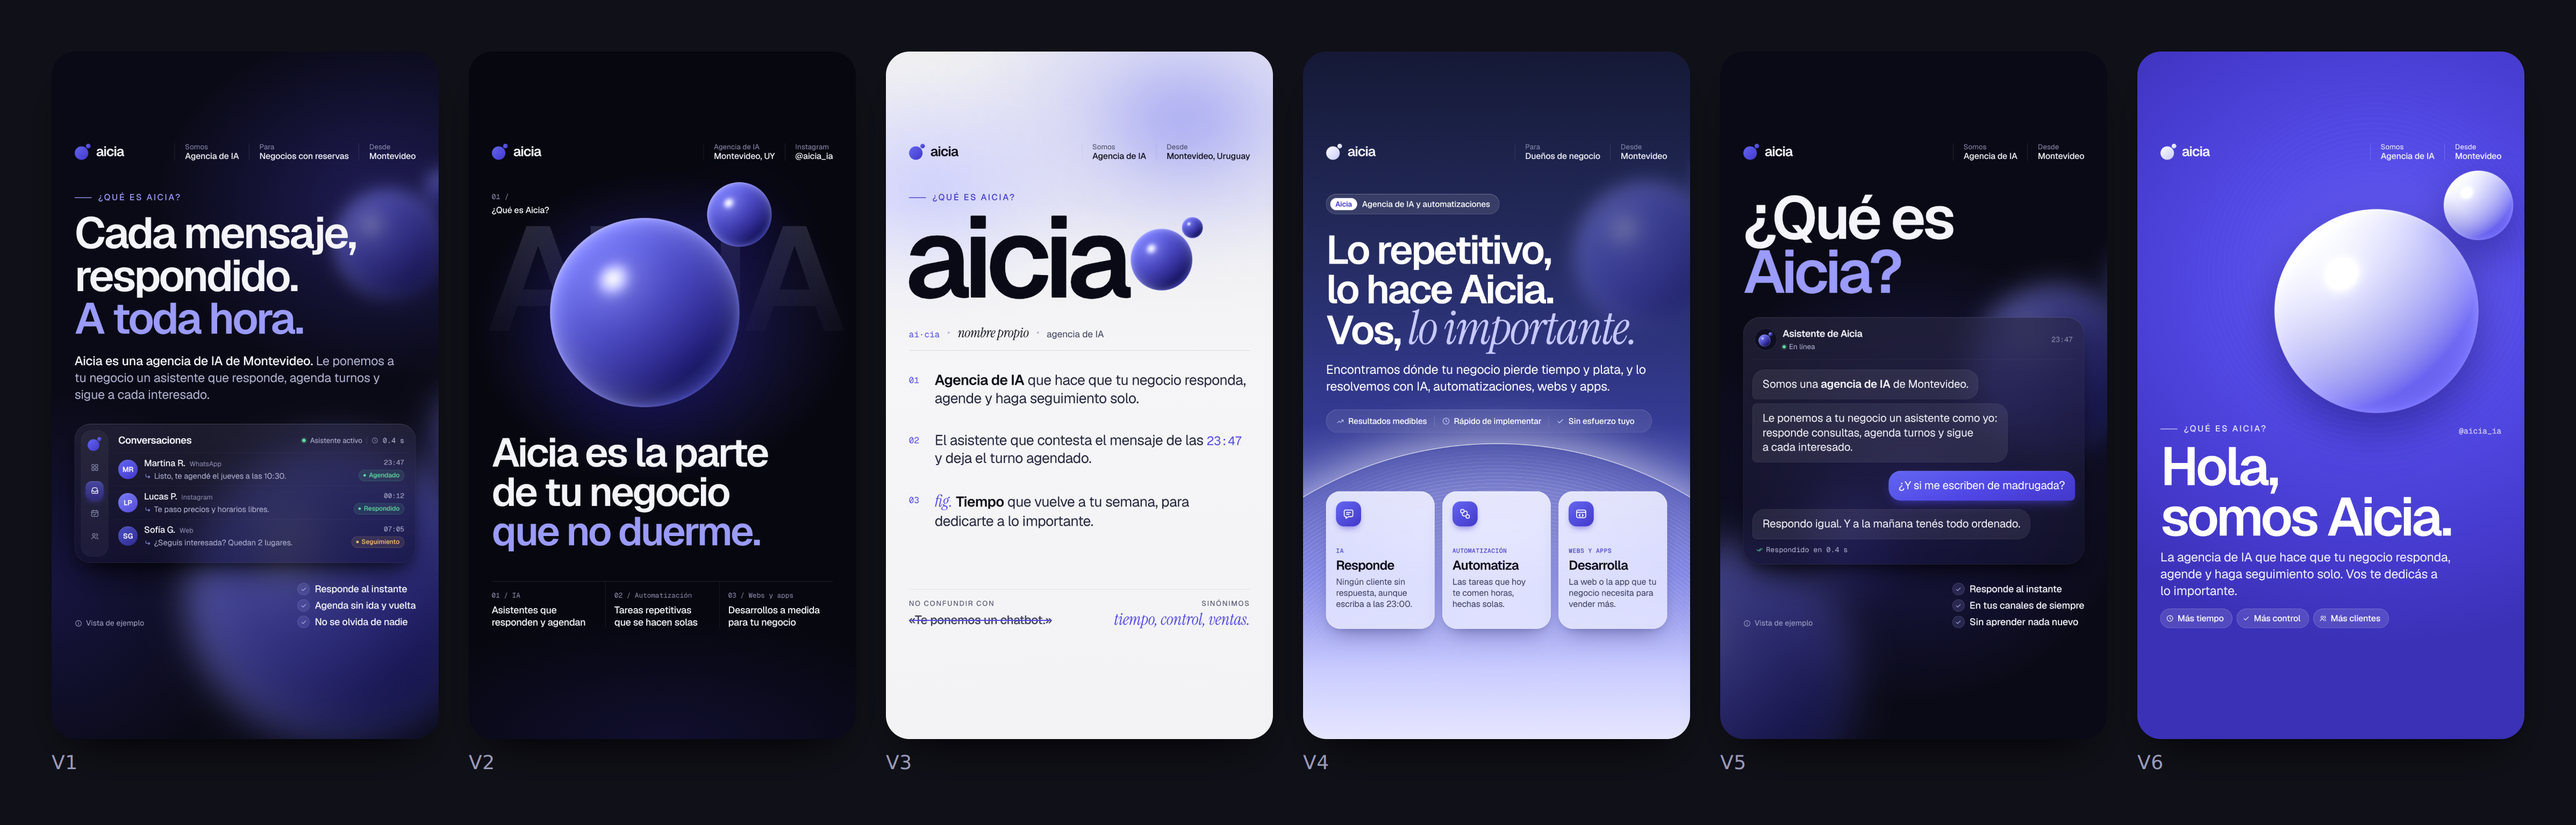
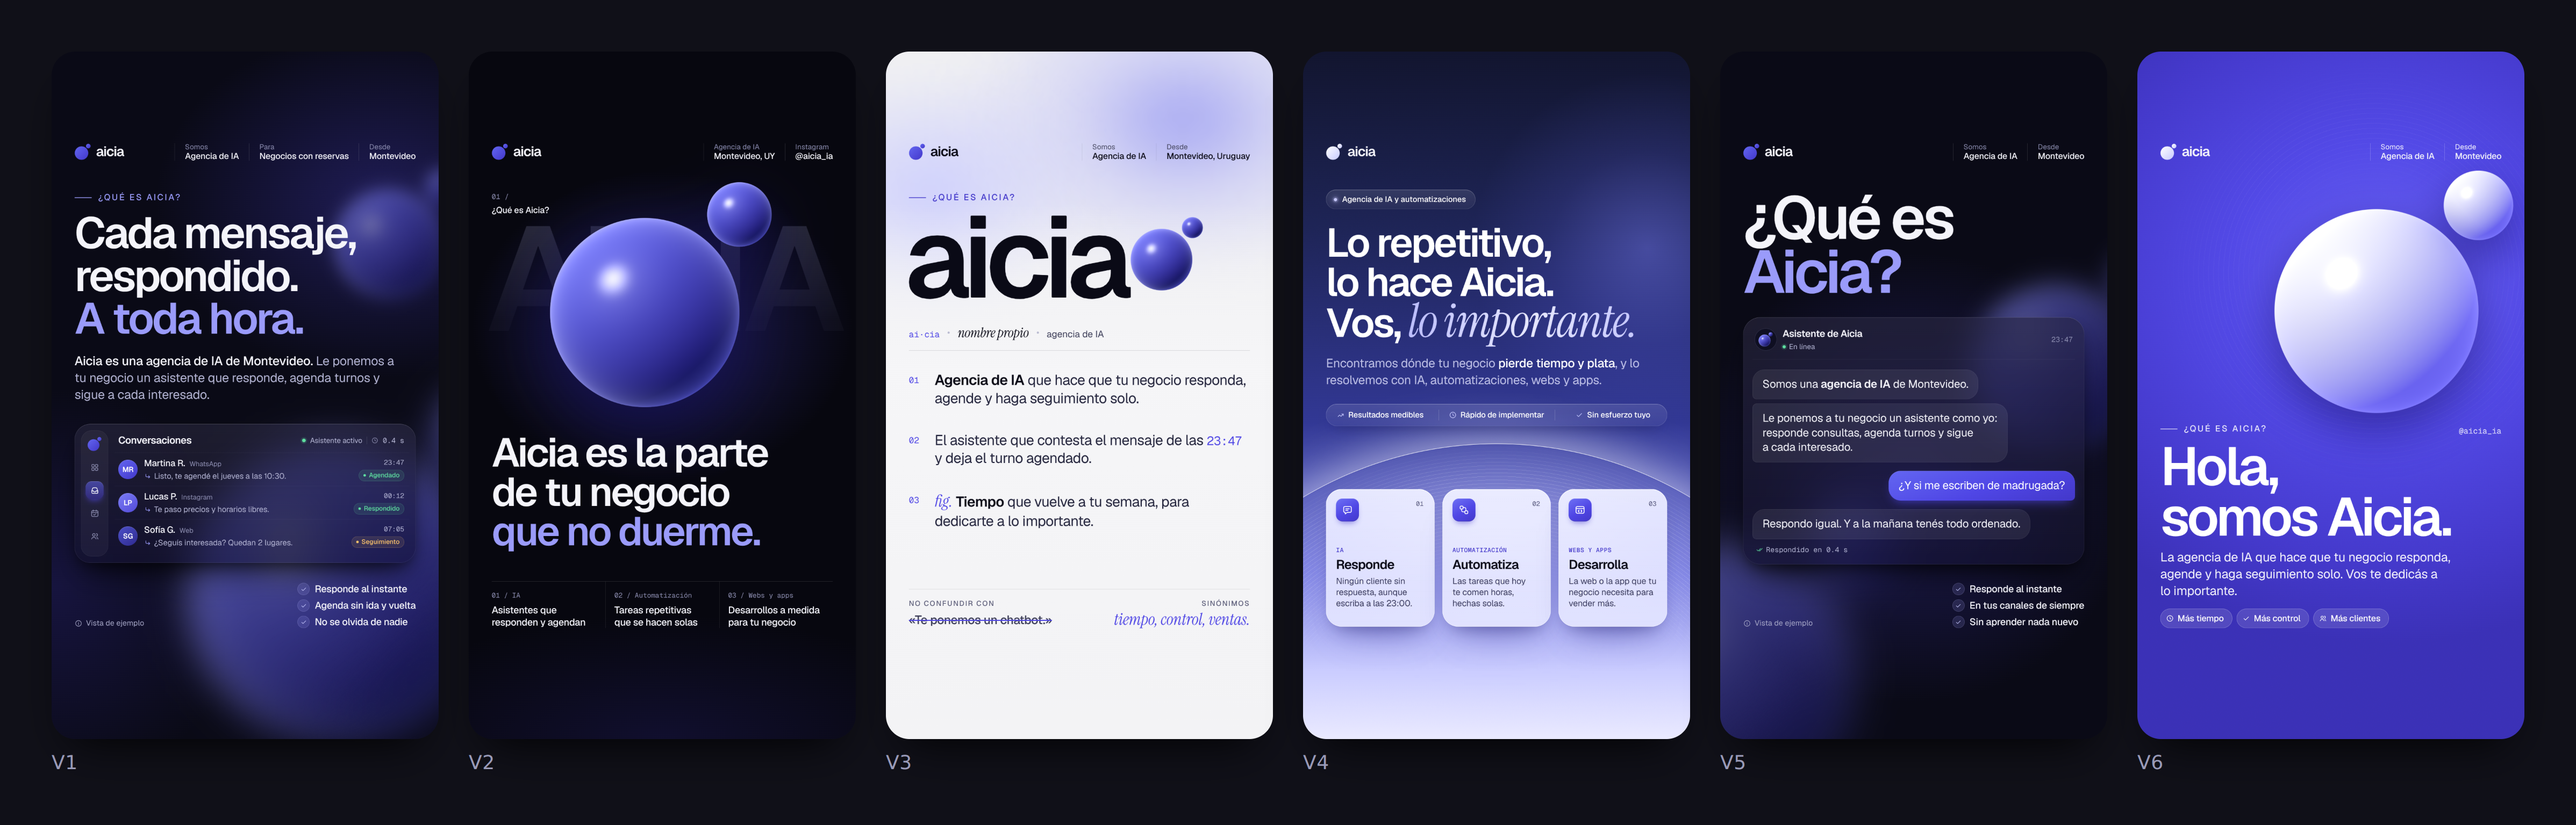
Pule la historia V4: más premium, sin la fila Para/Desde
Saca la fila meta de la derecha, cambia la luz borrosa por un brillo
limpio, pill con punto de estado, brillo sutil en "lo importante",
bajada con jerarquía, cápsula de valores alineada a la grilla de las
tarjetas y tarjetas con radios concéntricos y numeración.

Claude-Session: https://claude.ai/code/session_01SBSshHAET78NiDLxszLW9R

diff --git a/historias/que-es-aicia/historias.html b/historias/que-es-aicia/historias.html
@@ -154,24 +154,26 @@ img.sph{display:block;pointer-events:none;user-select:none}
 /* =========================================================
    V4 · Senses: degradé pizarra → lavanda + arco de líneas
    ========================================================= */
-.v4 .bg{background:linear-gradient(180deg,#151935 0%,#232A5C 28%,#343A92 54%,#7E82E4 76%,#C9CBFF 90%,#E6E6FF 100%)}
-.v4 .bg .arc{width:2100px;height:2100px;left:-510px;top:1096px;border-radius:50%;background:repeating-radial-gradient(circle at 50% 50%,rgba(255,255,255,0) 0 9px,rgba(255,255,255,.55) 9px 10px);-webkit-mask:radial-gradient(closest-side,transparent 64%,#000 79%,#000 92%,transparent 100%);mask:radial-gradient(closest-side,transparent 64%,#000 79%,#000 92%,transparent 100%);opacity:.45}
-.v4 .bg .arc2{width:2100px;height:2100px;left:-510px;top:1096px;border-radius:50%;box-shadow:0 -2px 0 0 rgba(255,255,255,.7),0 -40px 120px -20px rgba(255,255,255,.45)}
+.v4 .bg{background:linear-gradient(180deg,#12152E 0%,#1E2456 26%,#313793 54%,#7E82E4 76%,#C9CBFF 90%,#EAEAFF 100%)}
+.v4 .bg .orb{width:980px;height:980px;left:470px;top:60px;border-radius:50%;background:radial-gradient(closest-side,rgba(124,128,255,.40),rgba(99,102,241,.14) 55%,transparent)}
+.v4 .bg .arc{width:2100px;height:2100px;left:-510px;top:1096px;border-radius:50%;background:repeating-radial-gradient(circle at 50% 50%,rgba(255,255,255,0) 0 9px,rgba(255,255,255,.5) 9px 10px);-webkit-mask:radial-gradient(closest-side,transparent 64%,#000 79%,#000 92%,transparent 100%);mask:radial-gradient(closest-side,transparent 64%,#000 79%,#000 92%,transparent 100%);opacity:.4}
+.v4 .bg .arc2{width:2100px;height:2100px;left:-510px;top:1096px;border-radius:50%;box-shadow:0 -1.5px 0 0 rgba(255,255,255,.75),0 -40px 120px -20px rgba(255,255,255,.42)}
 .v4 .bg .halo{width:1300px;height:700px;left:-110px;top:1010px;border-radius:50%;background:radial-gradient(closest-side,rgba(199,201,255,.55),transparent);filter:blur(40px)}
-.v4 .bg .s-a{width:560px;left:720px;top:250px;filter:blur(26px);opacity:.45}
-.v4 .pill{left:var(--m);top:398px;display:flex;align-items:center;gap:14px;height:56px;padding:0 26px 0 12px;border-radius:999px;font-size:23px;font-weight:500;color:#fff;letter-spacing:-0.005em;background:rgba(255,255,255,.10);backdrop-filter:blur(18px);box-shadow:inset 0 0 0 1px rgba(255,255,255,.20),inset 0 1px 0 rgba(255,255,255,.25)}
-.v4 .pill b{height:34px;padding:0 14px;border-radius:999px;display:inline-flex;align-items:center;background:#fff;color:var(--indigo-d);font-weight:600;font-size:20px}
-.v4 .title{left:var(--m);top:500px;font-size:112px;width:960px;color:#fff;white-space:nowrap}
-.v4 .title .serif{font-size:132px;letter-spacing:-0.025em;line-height:.8;color:var(--lav)}
-.v4 .lede{left:var(--m);top:866px;width:952px;font-size:35px;line-height:1.34;color:#fff;letter-spacing:-0.012em;text-wrap:pretty}
-.v4 .vals{left:var(--m);top:1000px;height:64px;padding:0 28px;border-radius:999px;display:flex;align-items:center;background:rgba(255,255,255,.08);backdrop-filter:blur(18px);box-shadow:inset 0 0 0 1px rgba(255,255,255,.16),inset 0 1px 0 rgba(255,255,255,.2)}
-.v4 .vals span{display:flex;align-items:center;gap:10px;padding:0 20px;font-size:23px;font-weight:500;color:#fff;letter-spacing:-0.01em;border-left:1px solid rgba(255,255,255,.24);white-space:nowrap}
-.v4 .vals span:first-child{padding-left:0;border-left:0}
-.v4 .vals .ic{font-size:24px;color:var(--lav)}
-.v4 .cards{left:var(--m);right:var(--m);top:1228px;display:grid;grid-template-columns:repeat(3,1fr);gap:22px}
-.v4 .card{border-radius:40px;padding:28px 28px 32px;height:384px;display:flex;flex-direction:column;background:linear-gradient(180deg,rgba(255,255,255,.80),rgba(255,255,255,.62));backdrop-filter:blur(24px) saturate(140%);box-shadow:inset 0 0 0 1px rgba(255,255,255,.75),0 30px 60px -24px rgba(30,30,90,.45),0 8px 18px -8px rgba(30,30,90,.20);color:var(--ink)}
-.v4 .card .ti{flex:none;width:70px;height:70px;border-radius:22px;display:grid;place-items:center;font-size:34px;color:#fff;background:linear-gradient(140deg,#6366F1,#4338CA);box-shadow:inset 0 1px 0 rgba(255,255,255,.3),0 10px 20px -8px rgba(67,56,202,.7)}
-.v4 .card .k{margin-top:58px;font-size:17px;font-weight:500;color:var(--indigo-d);letter-spacing:0.04em;text-transform:uppercase}
+.v4 .pill{left:var(--m);top:386px;display:flex;align-items:center;gap:14px;height:54px;padding:0 26px 0 22px;border-radius:999px;font-size:22px;font-weight:500;color:#fff;letter-spacing:0;background:linear-gradient(180deg,rgba(255,255,255,.11),rgba(255,255,255,.05));backdrop-filter:blur(18px);box-shadow:inset 0 0 0 1px rgba(255,255,255,.16),inset 0 1px 0 rgba(255,255,255,.22)}
+.v4 .pill i{width:9px;height:9px;border-radius:50%;background:var(--lav);box-shadow:0 0 0 4px rgba(199,201,255,.14),0 0 14px 2px rgba(199,201,255,.65)}
+.v4 .title{left:var(--m);top:480px;font-size:112px;width:960px;color:#fff;white-space:nowrap}
+.v4 .title .serif{font-size:132px;letter-spacing:-0.025em;line-height:.8;color:var(--lav);background:linear-gradient(100deg,#B9BBFF 0%,#E6E7FF 52%,#C3C5FF 100%);-webkit-background-clip:text;background-clip:text;-webkit-text-fill-color:transparent;padding:0 .08em .14em 0}
+.v4 .lede{left:var(--m);top:848px;width:952px;font-size:34px;line-height:1.38;color:rgba(226,228,255,.80);letter-spacing:-0.012em;text-wrap:pretty}
+.v4 .lede b{color:#fff;font-weight:500}
+.v4 .vals{left:var(--m);right:var(--m);top:984px;height:62px;border-radius:999px;display:grid;grid-template-columns:repeat(3,1fr);column-gap:22px;align-items:center;background:linear-gradient(180deg,rgba(255,255,255,.11),rgba(255,255,255,.05));backdrop-filter:blur(18px);box-shadow:inset 0 0 0 1px rgba(255,255,255,.16),inset 0 1px 0 rgba(255,255,255,.22),0 20px 40px -24px rgba(10,10,40,.55)}
+.v4 .vals span{position:relative;display:flex;justify-content:center;align-items:center;gap:10px;height:30px;font-size:22px;font-weight:500;color:#fff;letter-spacing:-0.01em;white-space:nowrap}
+.v4 .vals span + span::before{content:"";position:absolute;left:-11px;top:0;bottom:0;width:1px;background:rgba(255,255,255,.2)}
+.v4 .vals .ic{font-size:22px;color:var(--lav)}
+.v4 .cards{left:var(--m);right:var(--m);top:1222px;display:grid;grid-template-columns:repeat(3,1fr);gap:22px}
+.v4 .card{position:relative;border-radius:44px;padding:26px 28px 32px;height:384px;display:flex;flex-direction:column;background:linear-gradient(180deg,rgba(255,255,255,.84),rgba(255,255,255,.66));backdrop-filter:blur(28px) saturate(160%);box-shadow:inset 0 0 0 1px rgba(255,255,255,.72),inset 0 1.5px 0 #fff,0 1px 2px rgba(30,30,90,.08),0 24px 48px -22px rgba(30,30,90,.40),0 60px 90px -50px rgba(40,36,140,.45);color:var(--ink)}
+.v4 .card .ti{flex:none;width:64px;height:64px;border-radius:18px;display:grid;place-items:center;font-size:30px;color:#fff;background:linear-gradient(150deg,#6E71F4,#4F46E5 55%,#4338CA);box-shadow:inset 0 1px 0 rgba(255,255,255,.35),inset 0 -1px 0 rgba(20,10,80,.25),0 10px 18px -8px rgba(67,56,202,.7)}
+.v4 .card .n{position:absolute;top:30px;right:30px;font-size:18px;color:#55567A}
+.v4 .card .k{margin-top:70px;font-size:17px;font-weight:500;color:var(--indigo-d);letter-spacing:0.04em;text-transform:uppercase}
 .v4 .card h3{margin-top:10px;font-size:36px;font-weight:600;letter-spacing:-0.035em;line-height:1.05}
 .v4 .card p{margin-top:12px;font-size:24px;line-height:1.3;color:#3A3B5C;letter-spacing:-0.008em;text-wrap:pretty}
 
@@ -332,19 +334,18 @@ img.sph{display:block;pointer-events:none;user-select:none}
 
 <!-- ============ V4 · Senses ============ -->
 <section class="story v4" id="v4">
-  <div class="bg"><div class="halo"></div><div class="arc"></div><div class="arc2"></div><img class="sph s-a" data-sph="indigo" alt=""><div class="grain"></div></div>
+  <div class="bg"><div class="orb"></div><div class="halo"></div><div class="arc"></div><div class="arc2"></div><div class="grain"></div></div>
   <header class="meta">
     <div class="brand"><svg><use href="#logo-w"/></svg>aicia</div>
-    <dl><div><dt>Para</dt><dd>Dueños de negocio</dd></div><div><dt>Desde</dt><dd>Montevideo</dd></div></dl>
   </header>
-  <div class="pill"><b>Aicia</b>Agencia de IA y automatizaciones</div>
+  <div class="pill"><i></i>Agencia de IA y automatizaciones</div>
   <h1 class="title">Lo repetitivo,<br>lo hace Aicia.<br>Vos, <span class="serif">lo importante.</span></h1>
-  <p class="lede">Encontramos dónde tu negocio pierde tiempo y plata, y lo resolvemos con IA, automatizaciones, webs y apps.</p>
+  <p class="lede">Encontramos dónde tu negocio <b>pierde tiempo y plata</b>, y lo resolvemos con IA, automatizaciones, webs y apps.</p>
   <div class="vals"><span><svg class="ic"><use href="#i-trend"/></svg>Resultados medibles</span><span><svg class="ic"><use href="#i-clock"/></svg>Rápido de implementar</span><span><svg class="ic"><use href="#i-check"/></svg>Sin esfuerzo tuyo</span></div>
   <div class="cards">
-    <div class="card"><div class="ti"><svg class="ic"><use href="#i-chat"/></svg></div><span class="k mono">IA</span><h3>Responde</h3><p>Ningún cliente sin respuesta, aunque escriba a las 23:00.</p></div>
-    <div class="card"><div class="ti"><svg class="ic"><use href="#i-flow"/></svg></div><span class="k mono">Automatización</span><h3>Automatiza</h3><p>Las tareas que hoy te comen horas, hechas solas.</p></div>
-    <div class="card"><div class="ti"><svg class="ic"><use href="#i-code"/></svg></div><span class="k mono">Webs y apps</span><h3>Desarrolla</h3><p>La web o la app que tu negocio necesita para vender más.</p></div>
+    <div class="card"><span class="n mono">01</span><div class="ti"><svg class="ic"><use href="#i-chat"/></svg></div><span class="k mono">IA</span><h3>Responde</h3><p>Ningún cliente sin respuesta, aunque escriba a las 23:00.</p></div>
+    <div class="card"><span class="n mono">02</span><div class="ti"><svg class="ic"><use href="#i-flow"/></svg></div><span class="k mono">Automatización</span><h3>Automatiza</h3><p>Las tareas que hoy te comen horas, hechas solas.</p></div>
+    <div class="card"><span class="n mono">03</span><div class="ti"><svg class="ic"><use href="#i-code"/></svg></div><span class="k mono">Webs y apps</span><h3>Desarrolla</h3><p>La web o la app que tu negocio necesita para vender más.</p></div>
   </div>
 </section>
 
